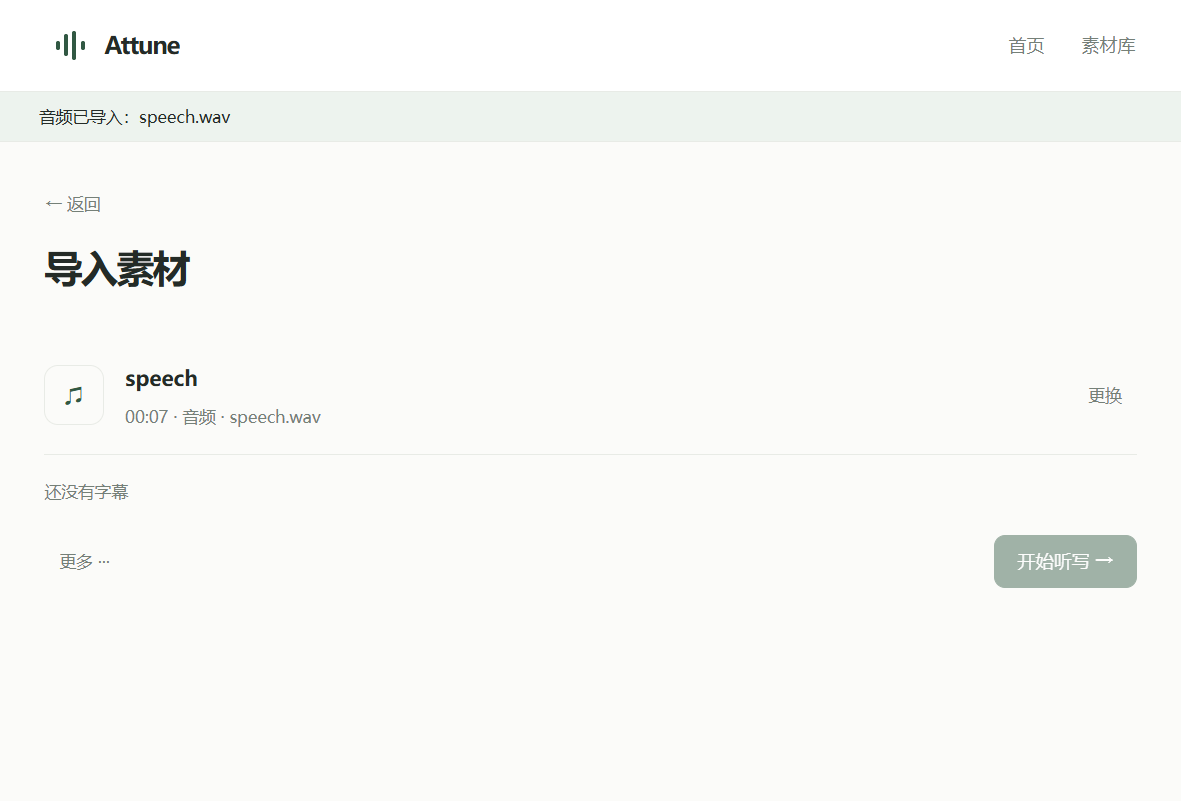
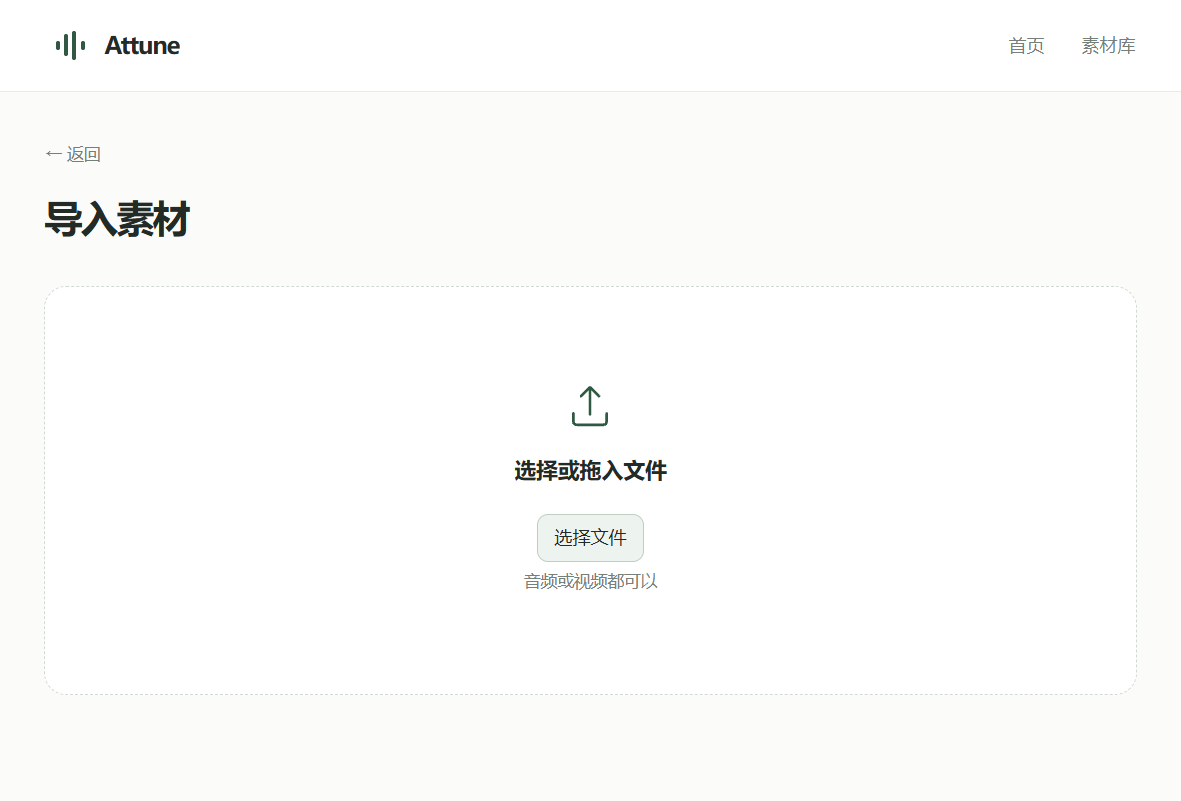
docs(ux): UX-1 人眼冒烟证据（选择文件音频/视频均 PASS）
桌面「选择文件」走系统对话框后，无字幕音频可自动准备并进入听写；无文本轨视频选中后沿同一条路识别就绪，不再出现无法确定文件位置。

diff --git a/docs/evidence/ux-1/README.md b/docs/evidence/ux-1/README.md
@@ -1,11 +1,12 @@
 # UX-1 人眼冒烟证据
 
 - 分支：`feat/ux-1-import-delegate`
-- 实施 tip：`fc0dc117efe379c67786482b6eb812483aa5e471`（冒烟开始时 HEAD）
+- 冒烟 tip：`67b6fe16091f8aed3532e71c15e2ba096742f87b`（桌面「选择文件」改走系统对话框，并修好 `media_stage_import` 的 camelCase）
 - 机器：Windows LM，WebView2 CDP `:9222`
 - 启动：`npm run desktop` + `WEBVIEW2_ADDITIONAL_BROWSER_ARGUMENTS=--remote-debugging-port=9222`
-- 脚本：`scripts/_cdp_ux1_smoke.mjs`
-- 总评：**FAIL**（第 1 条 PASS，第 2 条 FAIL）
+- 脚本：`scripts/_cdp_ux1_smoke.mjs`（点击真实「选择文件」，用 `Fill-OpenDialog.ps1` 填入系统「打开」对话框，不是 Playwright `setInputFiles`）
+- 总评：**PASS**（音频选择文件、视频选择文件都过）
+- 时间：2026-11-26 10:31（Asia/Shanghai）
 
 ## 素材
 
@@ -21,20 +22,17 @@
 
 | # | 路径 | 结果 | 关键截图 |
 | --- | --- | --- | --- |
-| 1 | 首页 → 导入无字幕音频 → 自动准备字幕（可见「正在准备字幕…」）→「已准备好 2 句，可以开始听写」且开始听写可点 → 进入听写 | **PASS** | `02-import-empty.png`、`04-audio-preparing.png`、`05-audio-ready.png`、`06-audio-dictation.png` |
-| 2 | 选中无文本轨视频后沿同一条路做完，不二次选择；有字幕则抽出，无则自动识别；主路径不出现 ffmpeg/ASR/OCR 等术语 | **FAIL** | `11-video-after-pick.png`、`13-video-ready.png` |
+| 1 | 首页 → 「选择文件」导入无字幕音频 → 自动准备字幕（可见「正在准备字幕…」）→「已准备好 2 句，可以开始听写」且开始听写可点 → 进入听写 | **PASS** | `02-import-empty.png`、`04-audio-preparing.png`、`05-audio-ready.png`、`06-audio-dictation.png` |
+| 2 | 「选择文件」选中无文本轨视频后沿同一条路做完，不二次选择，不出现「无法确定…位置」；无文本轨则自动识别；主路径不出现 ffmpeg/ASR/OCR 等术语 | **PASS** | `12-video-preparing.png`、`13-video-ready.png` |
 
-### 第 2 条失败点
+第 2 条这次走的是系统「打开」对话框（与真实桌面「选择文件」同一条路）。选中后出现「正在准备素材…」/「正在准备字幕…」，随后「已准备好 2 句，可以开始听写」，「开始听写」可点，没有打开「导入视频」技术面板，也没有主路径术语。
 
-选中 `speech_nosubs.mp4` 后，主路径出现：
+## 原生拖入
 
-> 无法确定这个视频文件的位置，请使用「选择文件」。
+本轮未单独自动化操作系统级拖入（WebView2 走的是 Tauri 投放事件，现有脚本只能稳定驱动「选择文件」对话框）。原生拖入监听仍走原来的 `listenDesktopMediaDrop` → `importFromPath`，与这次修好并验收过的视频路径会合，代码未改这条监听。
 
-没有打开「导入视频」技术面板，也没有主路径术语，但自动处理没有开始，因此不能验收「选中后沿同一条路做完 / 无文本轨则自动识别」。
+## 未开始
 
-复现：系统「打开」对话框选中该文件，以及 Playwright `setInputFiles` 指向同一路径，结果相同。页面拿到的是 `video/mp4` File，但没有 `path`。WebView2 的 HTML file input 未提供本地路径，而当前主路径处理视频依赖这条路径。
-
-未改产品代码。未开始 MOT-1 / UX-2 / UX-3 / MOT-2。未动 main 与 v0.1.3 Release。
+未开始 MOT-1 / UX-2 / UX-3 / MOT-2。未动 main 与 v0.1.3 Release。软口未改。
 
 详见 `SUMMARY.json` 与 `cdp-smoke-notes.txt`。
-
